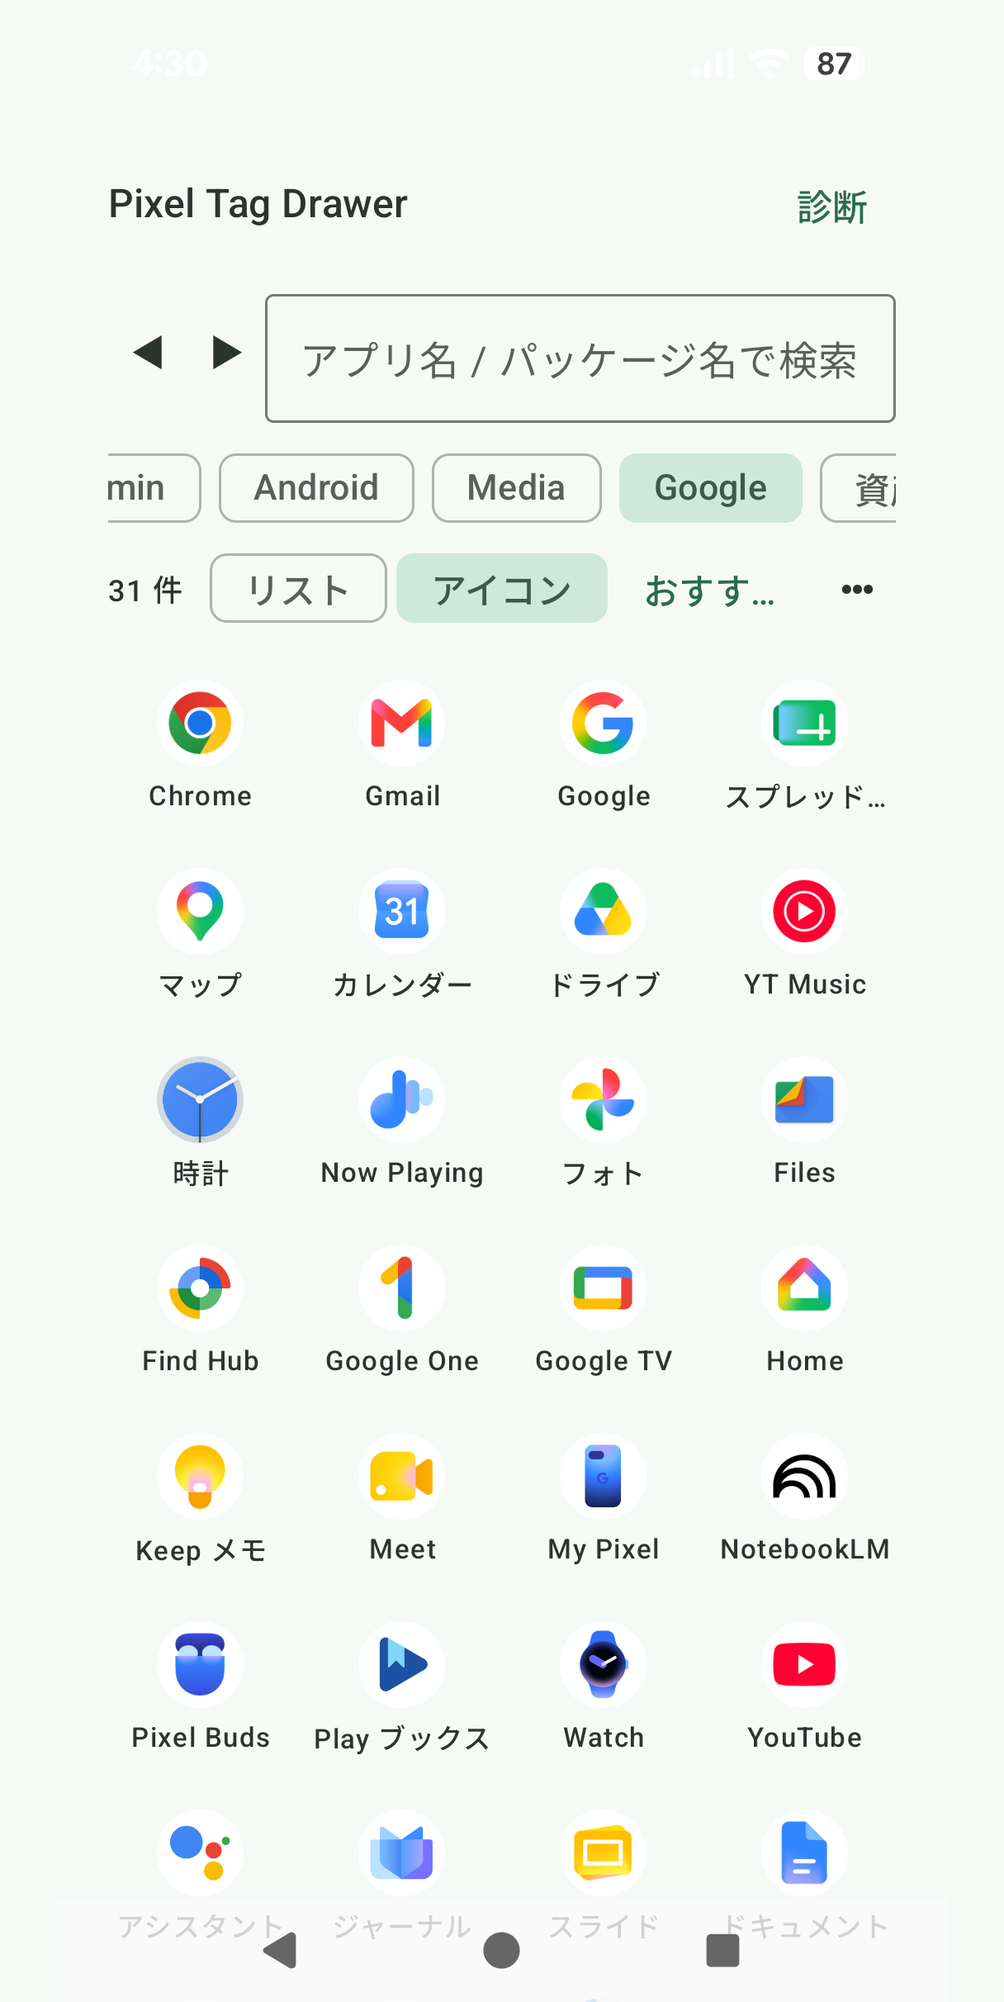
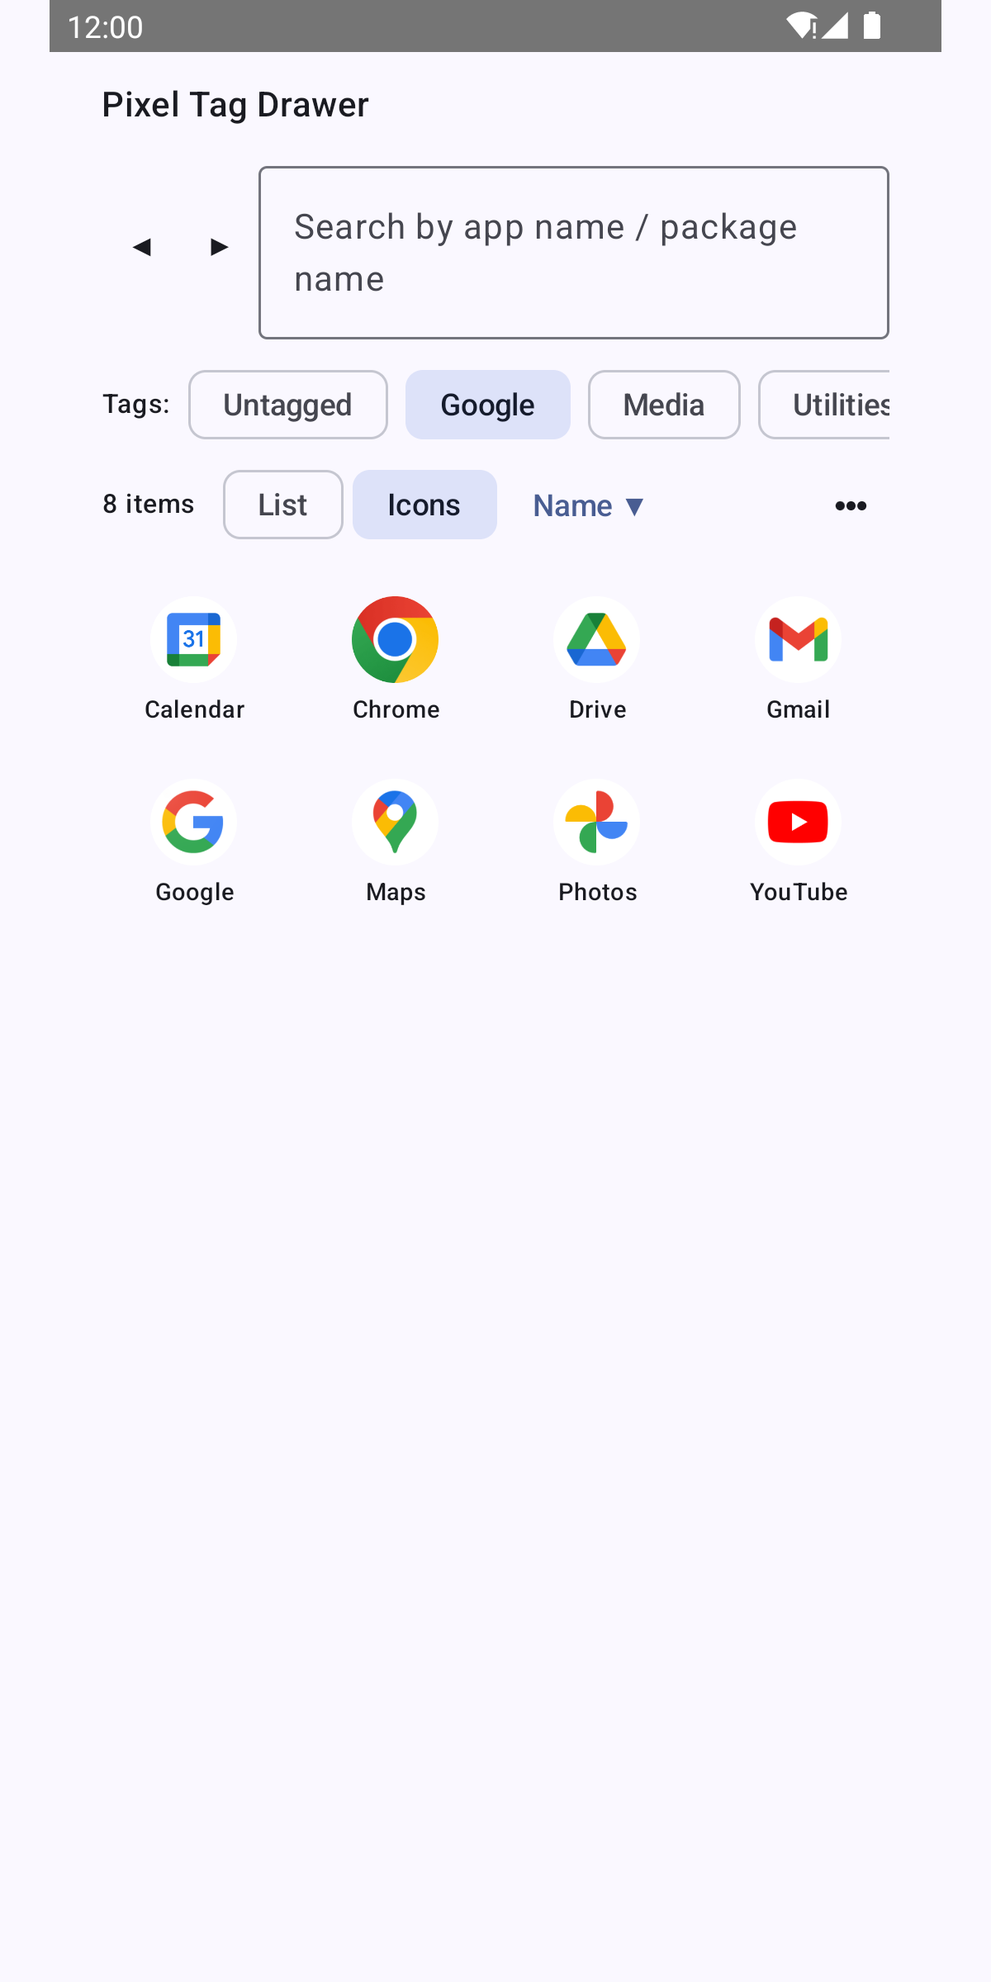
Prepare Pixel Tag Drawer for AlternativeTo resubmission
AlternativeTo asked for the GitHub repository and screenshots to be
available in English.

- Make README.md English (primary); keep the Japanese README as
  README.ja.md with cross-links
- Replace the public screenshots with English-UI captures taken from a
  release build running on an Android emulator set to English
- Keep the previous Japanese-UI screenshots under docs/images/ja/
- Regenerate the padded Play screenshots from the English captures
- List the F-Droid page alongside the GitHub Release APK
- Add a short "How to use" section

No app code, version, or F-Droid metadata changed.

diff --git a/README.md b/README.md
@@ -1,125 +1,153 @@
 # Pixel Tag Drawer
 
-**Pixel Launcherはそのまま。アプリだけ、自分のタグで整理できます。**
+[English](README.md) | [日本語](README.ja.md)
 
-Pixel Tag Drawerは、Pixel Launcherを置き換えずに使うAndroid向けの補助アプリです。
-端末上の起動可能なアプリを一覧にし、用途に合わせたタグで整理・絞り込みできます。
-HOMEランチャーとしては動作せず、通常のアプリとしてPixel Launcherと併用します。
+**Keep Pixel Launcher as it is. Just organize your apps with your own tags.**
 
-ビルド設定上のminSdkは26（Android 8.0）です。現在はPixel 10aで開発・動作確認しています。
-ほかの端末やランチャーでの動作は未検証であり、正常な動作を保証するものではありません。
+Pixel Tag Drawer is a companion app for Android that works alongside Pixel Launcher instead of replacing it.
+It lists the launchable apps on your device and lets you organize and filter them with tags that fit how you use them.
+It does not act as a home launcher; you use it as a normal app next to Pixel Launcher.
 
-## スクリーンショット
+The app UI is **English by default**. If the device language is Japanese, the app shows its Japanese UI instead.
+The screenshots below show the English UI.
+
+The build's minSdk is 26 (Android 8.0). It is currently developed and tested on a Pixel 10a.
+Behavior on other devices or launchers has not been verified and is not guaranteed.
+
+## Screenshots
 
 <table>
   <tr>
     <td align="center">
-      <strong>全アプリ表示</strong><br>
-      <sub>すべての起動可能アプリをグリッド表示</sub><br>
-      <img src="docs/images/all-apps.png" alt="全アプリのグリッド表示" width="240">
+      <strong>All apps</strong><br>
+      <sub>Every launchable app in a grid</sub><br>
+      <img src="docs/images/all-apps.png" alt="Grid view of all apps" width="240">
     </td>
     <td align="center">
-      <strong>単一タグで絞り込み</strong><br>
-      <sub>Googleタグで対象アプリを絞り込み</sub><br>
-      <img src="docs/images/google-tag.png" alt="Googleタグによる絞り込み" width="240">
+      <strong>Filter by one tag</strong><br>
+      <sub>Narrow the list down with the Google tag</sub><br>
+      <img src="docs/images/google-tag.png" alt="Apps filtered by the Google tag" width="240">
     </td>
   </tr>
   <tr>
     <td align="center">
-      <strong>複数タグのAND絞り込み</strong><br>
-      <sub>MediaとGoogleをAND条件で絞り込み</sub><br>
-      <img src="docs/images/media-google-and-filter.png" alt="MediaとGoogleのAND絞り込み" width="240">
+      <strong>AND filter with multiple tags</strong><br>
+      <sub>Show only apps that have both Google and Media</sub><br>
+      <img src="docs/images/media-google-and-filter.png" alt="AND filter with the Google and Media tags" width="240">
     </td>
     <td align="center">
-      <strong>タグ管理</strong><br>
-      <sub>タグの作成・並べ替え・名前変更・削除</sub><br>
-      <img src="docs/images/tag-management.png" alt="タグ管理画面" width="240">
+      <strong>Tag management</strong><br>
+      <sub>Create, reorder, rename and delete tags</sub><br>
+      <img src="docs/images/tag-management.png" alt="Tag management screen" width="240">
     </td>
   </tr>
 </table>
 
-## 主な特徴
+Japanese-UI screenshots are in [README.ja.md](README.ja.md).
 
-- 起動可能なアプリを「全アプリ」「選択したタグ」「タグなし」で表示
-- 1つのアプリに複数のタグを付与
-- 複数タグをすべて持つアプリだけを表示するAND絞り込み
-- アプリ名・パッケージ名による検索
-- リスト表示とグリッド表示の切り替え
-- 名前順、最近起動した順、起動回数順、おすすめ順への並び替え
-- タグの作成、名前変更、削除と、アプリへの一括付与・解除
-- タグまたは「タグなし」の絞り込みを開くPinned Shortcut
+## Features
 
-## Usage Access（使用状況へのアクセス）
+- Show launchable apps as "all apps", a selected tag, or "untagged"
+- Assign multiple tags to one app
+- AND filter: show only apps that have all of the selected tags
+- Search by app name or package name
+- Switch between list and grid (icon) view
+- Sort by name, most recently launched, launch count, or a usage-based "recommended" order
+- Create, rename and delete tags, and add or remove a tag on many apps at once
+- Pinned shortcuts that open a specific tag filter or the "untagged" filter on your home screen
 
-最近起動した順、起動回数順、おすすめ順では、Androidの`UsageStats`と
-`UsageEvents`を使用します。最近起動した順と起動回数順は過去30日、
-おすすめ順は直近7日の使用状況を端末内で集計します。
+## Supported Android version and languages
 
-これらの並び順を使うには、Androidの設定画面でPixel Tag Drawerに
-「使用状況へのアクセス」を手動で許可する必要があります。通常のランタイム権限ダイアログでは
-許可できません。許可しない場合も、名前順、検索、タグ整理、タグ絞り込みなどは利用でき、
-使用状況が必要な並び順は名前順へフォールバックします。
+- Android 8.0 (API 26) or later (minSdk 26)
+- English (default) and Japanese UI. Japanese is used when the device language is Japanese; otherwise English is shown.
 
-## ダウンロード / インストール
+## Usage Access
 
-GitHubのReleaseからAPKをsideloadする形式で配布しています。Google Playでの配布ではありません。
+The "recently launched", "launch count" and "recommended" sort orders use Android's `UsageStats` and
+`UsageEvents`. "Recently launched" and "launch count" aggregate the last 30 days, and "recommended"
+aggregates the last 7 days, all on the device.
 
-1. [v0.1.4 リリース](https://github.com/iwadjp/pixel-tag-drawer/releases/tag/v0.1.4) を開く
-2. Assetsから`pixel-tag-drawer-v0.1.4-android.apk`をダウンロードする
-3. ダウンロードしたAPKをタップしてインストールする
+To use these sort orders you must grant "usage access" to Pixel Tag Drawer manually in Android settings.
+It cannot be granted through a normal runtime permission dialog. If you do not grant it, name sorting, search,
+tag organization and tag filtering still work, and the usage-based orders fall back to name order.
 
-Androidでは、このソースからのアプリインストールを許可するよう求められる場合があります。また Google Play Protect や Android が、Google Play 外で配布された APK に対して警告を表示することがあります。インストールを進める前に、ダウンロードしたAPKが上記の公式GitHub Releaseから取得したものであることを確認してください。
+## Download / Install
 
-現時点でPixel 10aでのみ動作確認済みです。他の端末やランチャーでの動作は未検証です。
+Pixel Tag Drawer is available from F-Droid, or as an APK you can sideload from GitHub Releases.
+It is not distributed through Google Play.
 
-開発用にソースからビルドしたい場合は、以下の「開発環境」「ビルドと検証」を参照してください。
+### F-Droid
 
-## 開発環境
+- [Pixel Tag Drawer on F-Droid](https://f-droid.org/packages/com.iwadjp.pixeltagdrawer/)
+
+### GitHub Release (APK)
+
+1. Open the [v0.1.4 release](https://github.com/iwadjp/pixel-tag-drawer/releases/tag/v0.1.4)
+2. Download `pixel-tag-drawer-v0.1.4-android.apk` from Assets
+3. Tap the downloaded APK to install it
+
+Android may ask you to allow installing apps from this source. Google Play Protect or Android may also show a
+warning for APKs distributed outside Google Play. Before proceeding, make sure the APK you downloaded came from the
+official GitHub Release above.
+
+It has only been verified on a Pixel 10a so far. Other devices and launchers have not been tested.
+
+To build from source for development, see "Development environment" and "Build and verify" below.
+
+## How to use
+
+1. Open Pixel Tag Drawer. All launchable apps are listed.
+2. Open the "⋯" menu and choose "Manage tags" to create tags (for example "Google", "Media", "Utilities").
+3. Choose "Edit tags" in the "⋯" menu, select apps, pick a tag and tap "Assign" to add the tag to many apps at once.
+4. Tap a tag chip to show only apps with that tag, or "Untagged" to find apps without tags.
+5. Turn on "Multi-select" in the "⋯" menu to select several tag chips and show only apps that have all of them (AND filter).
+6. Use "Add to Home screen" in "Manage tags" to pin a shortcut that opens a specific tag filter.
+
+## Development environment
 
 - JDK 21
 - Android SDK 36
-- Android Studio、またはAndroid SDKを利用できるコマンドライン環境
+- Android Studio, or a command-line environment with the Android SDK
 
-Gradle 9.4.1はGradle Wrapperから取得されます。Android SDKの場所は、
-追跡対象外の`local.properties`または環境変数で設定してください。
+Gradle 9.4.1 is downloaded by the Gradle Wrapper. Set the Android SDK location in the untracked
+`local.properties` or through an environment variable.
 
-## ビルドと検証
+## Build and verify
 
-PowerShellでは、リポジトリのルートで次のコマンドを実行します。
+In PowerShell, run the following from the repository root.
 
 ```powershell
-# Debug APKを作成
+# Build a debug APK
 .\gradlew.bat assembleDebug
 
-# JVM unit testを実行
+# Run JVM unit tests
 .\gradlew.bat testDebugUnitTest
 
-# Android lintを実行
+# Run Android lint
 .\gradlew.bat lintDebug
 ```
 
-macOS/Linuxでは`.\gradlew.bat`を`./gradlew`に読み替えてください。
+On macOS/Linux, replace `.\gradlew.bat` with `./gradlew`.
 
-Debug APKは次の場所に生成されます。
+The debug APK is generated at:
 
 ```text
 app/build/outputs/apk/debug/app-debug.apk
 ```
 
-このAPKは開発用のdebug buildです。端末へインストールするには、Android SDK Platform Toolsの
-`adb`を使うか、端末側で提供元不明アプリのインストールを許可する必要があります。
-既に同じapplication IDのアプリがある場合、署名が異なるAPKでは上書きインストールできません。
+This APK is a development debug build. To install it on a device, use `adb` from the Android SDK Platform Tools,
+or allow installing apps from unknown sources on the device. If an app with the same application ID is already
+installed, an APK signed with a different key cannot overwrite it.
 
-## プライバシー
+## Privacy
 
-起動可能なアプリの情報、作成したタグ、表示設定、許可された場合の使用状況データは、
-現在の実装では端末内で処理されます。アプリは`INTERNET`権限を要求せず、外部サーバーへ
-これらのデータを送信する処理も実装していません。
+In the current implementation, information about launchable apps, the tags you create, display settings and
+(if you grant it) usage data are processed on the device. The app does not request the `INTERNET` permission and
+has no code that sends this data to an external server.
 
-診断ログにはアプリ名やパッケージ名などが含まれる場合があります。ログをコピーして共有する際は、
-内容を確認してください。
+Diagnostic logs may contain app names or package names. Review the content before copying and sharing logs.
 
-アプリ内の「⋯」メニューから、上記の内容を含むプライバシーポリシー本文を確認できます。
+You can read the privacy policy text, which includes the above, from the "⋯" menu inside the app.
 
 ## License
 

diff --git a/README.ja.md b/README.ja.md
@@ -1,0 +1,132 @@
+# Pixel Tag Drawer
+
+[English](README.md) | 日本語
+
+> このファイルは日本語版READMEです。英語版（主言語）は [README.md](README.md) です。アプリはEnglishがデフォルトUIで、端末の言語が日本語の場合に日本語UIを表示します。下のスクリーンショットは日本語UIのものです。
+
+**Pixel Launcherはそのまま。アプリだけ、自分のタグで整理できます。**
+
+Pixel Tag Drawerは、Pixel Launcherを置き換えずに使うAndroid向けの補助アプリです。
+端末上の起動可能なアプリを一覧にし、用途に合わせたタグで整理・絞り込みできます。
+HOMEランチャーとしては動作せず、通常のアプリとしてPixel Launcherと併用します。
+
+ビルド設定上のminSdkは26（Android 8.0）です。現在はPixel 10aで開発・動作確認しています。
+ほかの端末やランチャーでの動作は未検証であり、正常な動作を保証するものではありません。
+
+## スクリーンショット
+
+<table>
+  <tr>
+    <td align="center">
+      <strong>全アプリ表示</strong><br>
+      <sub>すべての起動可能アプリをグリッド表示</sub><br>
+      <img src="docs/images/ja/all-apps.png" alt="全アプリのグリッド表示" width="240">
+    </td>
+    <td align="center">
+      <strong>単一タグで絞り込み</strong><br>
+      <sub>Googleタグで対象アプリを絞り込み</sub><br>
+      <img src="docs/images/ja/google-tag.png" alt="Googleタグによる絞り込み" width="240">
+    </td>
+  </tr>
+  <tr>
+    <td align="center">
+      <strong>複数タグのAND絞り込み</strong><br>
+      <sub>MediaとGoogleをAND条件で絞り込み</sub><br>
+      <img src="docs/images/ja/media-google-and-filter.png" alt="MediaとGoogleのAND絞り込み" width="240">
+    </td>
+    <td align="center">
+      <strong>タグ管理</strong><br>
+      <sub>タグの作成・並べ替え・名前変更・削除</sub><br>
+      <img src="docs/images/ja/tag-management.png" alt="タグ管理画面" width="240">
+    </td>
+  </tr>
+</table>
+
+## 主な特徴
+
+- 起動可能なアプリを「全アプリ」「選択したタグ」「タグなし」で表示
+- 1つのアプリに複数のタグを付与
+- 複数タグをすべて持つアプリだけを表示するAND絞り込み
+- アプリ名・パッケージ名による検索
+- リスト表示とグリッド表示の切り替え
+- 名前順、最近起動した順、起動回数順、おすすめ順への並び替え
+- タグの作成、名前変更、削除と、アプリへの一括付与・解除
+- タグまたは「タグなし」の絞り込みを開くPinned Shortcut
+
+## Usage Access（使用状況へのアクセス）
+
+最近起動した順、起動回数順、おすすめ順では、Androidの`UsageStats`と
+`UsageEvents`を使用します。最近起動した順と起動回数順は過去30日、
+おすすめ順は直近7日の使用状況を端末内で集計します。
+
+これらの並び順を使うには、Androidの設定画面でPixel Tag Drawerに
+「使用状況へのアクセス」を手動で許可する必要があります。通常のランタイム権限ダイアログでは
+許可できません。許可しない場合も、名前順、検索、タグ整理、タグ絞り込みなどは利用でき、
+使用状況が必要な並び順は名前順へフォールバックします。
+
+## ダウンロード / インストール
+
+[F-Droid](https://f-droid.org/packages/com.iwadjp.pixeltagdrawer/)、またはGitHubのReleaseからAPKをsideloadして入手できます。Google Playでの配布ではありません。
+
+### GitHub Release（APK）
+
+1. [v0.1.4 リリース](https://github.com/iwadjp/pixel-tag-drawer/releases/tag/v0.1.4) を開く
+2. Assetsから`pixel-tag-drawer-v0.1.4-android.apk`をダウンロードする
+3. ダウンロードしたAPKをタップしてインストールする
+
+Androidでは、このソースからのアプリインストールを許可するよう求められる場合があります。また Google Play Protect や Android が、Google Play 外で配布された APK に対して警告を表示することがあります。インストールを進める前に、ダウンロードしたAPKが上記の公式GitHub Releaseから取得したものであることを確認してください。
+
+現時点でPixel 10aでのみ動作確認済みです。他の端末やランチャーでの動作は未検証です。
+
+開発用にソースからビルドしたい場合は、以下の「開発環境」「ビルドと検証」を参照してください。
+
+## 開発環境
+
+- JDK 21
+- Android SDK 36
+- Android Studio、またはAndroid SDKを利用できるコマンドライン環境
+
+Gradle 9.4.1はGradle Wrapperから取得されます。Android SDKの場所は、
+追跡対象外の`local.properties`または環境変数で設定してください。
+
+## ビルドと検証
+
+PowerShellでは、リポジトリのルートで次のコマンドを実行します。
+
+```powershell
+# Debug APKを作成
+.\gradlew.bat assembleDebug
+
+# JVM unit testを実行
+.\gradlew.bat testDebugUnitTest
+
+# Android lintを実行
+.\gradlew.bat lintDebug
+```
+
+macOS/Linuxでは`.\gradlew.bat`を`./gradlew`に読み替えてください。
+
+Debug APKは次の場所に生成されます。
+
+```text
+app/build/outputs/apk/debug/app-debug.apk
+```
+
+このAPKは開発用のdebug buildです。端末へインストールするには、Android SDK Platform Toolsの
+`adb`を使うか、端末側で提供元不明アプリのインストールを許可する必要があります。
+既に同じapplication IDのアプリがある場合、署名が異なるAPKでは上書きインストールできません。
+
+## プライバシー
+
+起動可能なアプリの情報、作成したタグ、表示設定、許可された場合の使用状況データは、
+現在の実装では端末内で処理されます。アプリは`INTERNET`権限を要求せず、外部サーバーへ
+これらのデータを送信する処理も実装していません。
+
+診断ログにはアプリ名やパッケージ名などが含まれる場合があります。ログをコピーして共有する際は、
+内容を確認してください。
+
+アプリ内の「⋯」メニューから、上記の内容を含むプライバシーポリシー本文を確認できます。
+
+## License
+
+[MIT License](LICENSE)

diff --git a/docs/play/screenshots/README.md b/docs/play/screenshots/README.md
@@ -2,17 +2,17 @@
 
 Google Play requires each screenshot's longer side to be no more than **twice**
 the shorter side (min 320px, max 3840px). The source screenshots in
-`docs/images/` are 1080×2424 (ratio 2.24), which fails that check.
+`docs/images/` are 1080×2400 (ratio 2.22), which fails that check.
 
-These files are 1216×2424 (ratio 1.99): the original 1080×2424 image is
-pasted unmodified and centered, with 68px of flat padding added on each side
+These are the English-UI screenshots (captured from a release build on an Android emulator set to English). These files are 1200×2400 (ratio 2.00): the original 1080×2400 image is
+pasted unmodified and centered, with 60px of flat padding added on each side
 (color sampled from that image's own background — no crop, no stretch, no
 content change). They are for a possible future Google Play submission and
 are not referenced by the current README or F-Droid metadata.
 
 | File | Source | Padded |
 |---|---|---|
-| `all-apps.png` | `docs/images/all-apps.png` (1080×2424) | 1216×2424 |
-| `google-tag.png` | `docs/images/google-tag.png` (1080×2424) | 1216×2424 |
-| `media-google-and-filter.png` | `docs/images/media-google-and-filter.png` (1080×2424) | 1216×2424 |
-| `tag-management.png` | `docs/images/tag-management.png` (1080×2424) | 1216×2424 |
+| `all-apps.png` | `docs/images/all-apps.png` (1080×2400) | 1200×2400 |
+| `google-tag.png` | `docs/images/google-tag.png` (1080×2400) | 1200×2400 |
+| `media-google-and-filter.png` | `docs/images/media-google-and-filter.png` (1080×2400) | 1200×2400 |
+| `tag-management.png` | `docs/images/tag-management.png` (1080×2400) | 1200×2400 |
